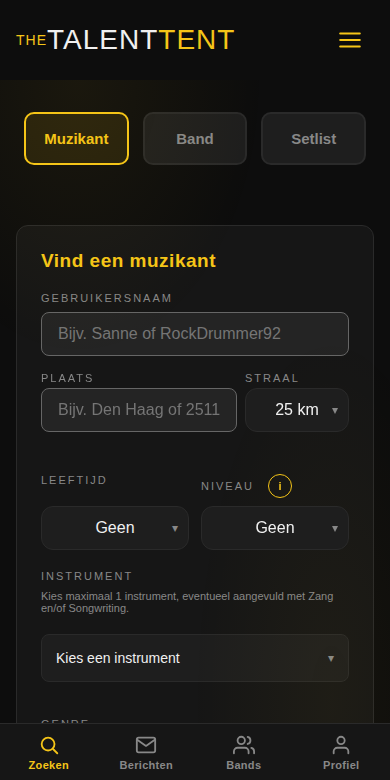
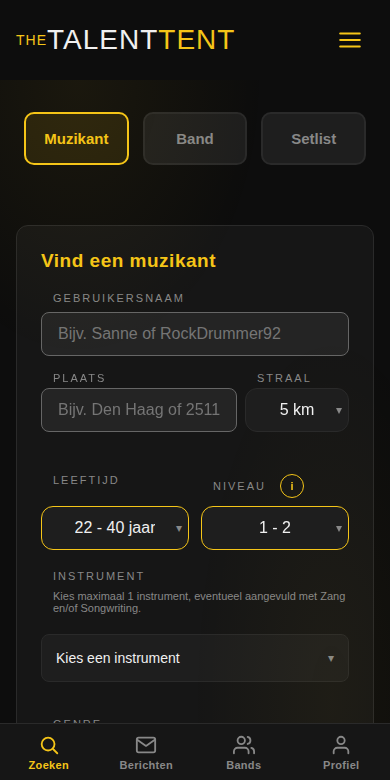
Add files via upload

diff --git a/styles.css b/styles.css
@@ -220,13 +220,21 @@
     gap: 8px;
   }
 
+  /* TT-233 (10-09-2026, Ronald): een label stond tegen de rand van de kolom,
+     terwijl de tekst in het veld eronder 12px inspringt — de breedte van de
+     ronde hoek. Daardoor liep geen enkele tekstregel op één lijn. Label en
+     hulptekst springen nu evenveel in als de tekst in het veld.
+     Geldt app-breed; --radius is 12px. */
   label {
     font-size: 11px;
     letter-spacing: 2px;
     text-transform: uppercase;
     color: var(--muted);
     font-weight: 500;
+    padding-left: var(--radius);
   }
+  /* Hulptekst onder een label, binnen dezelfde veldgroep. */
+  .field > p { padding-left: var(--radius); }
 
   /* Contrastfix 12-08-2026 (melding Ronald): randkleur en achtergrond van
      invulvelden weken bijna niet af van de paginakleur (#2a2a2a rand op
@@ -2738,7 +2746,11 @@
     align-items: center;
     justify-content: center;   /* de waarde staat gecentreerd, huisstijl §7.2 */
     min-height: 44px;
-    padding: 0 26px;
+    /* Beperkte opvulling met reden: op een scherm van 360px is dit veld 133px
+       breed. De langste stand, "22 - 40 jaar", heeft 85px nodig. Bij 26px
+       opvulling links en rechts werd die tekst afgekapt. Het pijltje staat er
+       los overheen, dus het kost geen breedte. */
+    padding: 0 12px;
     background: var(--surface2);
     border: var(--line) solid var(--border);
     border-radius: var(--radius);
@@ -2751,10 +2763,10 @@
   .wheel-field:focus-visible { outline: 2px solid var(--accent); outline-offset: 2px; }
   /* Gouden rand zodra dit filter aanstaat — in één blik te zien wat er leeft. */
   .wheel-field.is-set { border-color: var(--accent); }
-  .wheel-field-label { overflow: hidden; text-overflow: ellipsis; }
+  .wheel-field-label { overflow: hidden; text-overflow: ellipsis; max-width: calc(100% - 12px); }
   .wheel-field-chevron {
     position: absolute;
-    right: 10px;
+    right: 6px;
     color: var(--muted);
     font-size: 12px;
     pointer-events: none;
@@ -2820,9 +2832,10 @@
   .filter-row-city .frc-straal { flex: 0 0 auto; }
   .filter-row-city .frc-straal .wheel-field { min-width: 104px; }
 
-  /* Leeftijd en Niveau naast elkaar: twee exact gelijke kolommen. Zelfde
-     principe als een knoppenrij (§5) — 1fr is altijd even breed. */
-  .wheel-filter-row {
+  /* Twee velden naast elkaar: exact gelijke kolommen. Zelfde principe als een
+     knoppenrij (§5) — 1fr is altijd even breed. Gebruikt voor Leeftijd/Niveau
+     én voor Sorteren/Weergave. */
+  .field-pair-row {
     display: grid;
     grid-template-columns: 1fr 1fr;
     gap: 12px;
@@ -2832,11 +2845,44 @@
      bij Leeftijd. Zonder deze regel begint het ene veld 12px lager dan het
      andere. De cellen zijn even hoog (grid), dus de velden onderaan uitlijnen
      zet ze weer op één regel. */
-  .wheel-filter-row .field { min-width: 0; display: flex; flex-direction: column; }
-  .wheel-filter-row .field .wheel-field { margin-top: auto; }
+  .field-pair-row .field { min-width: 0; display: flex; flex-direction: column; }
+  .field-pair-row .field .wheel-field,
+  .field-pair-row .field .select-field { margin-top: auto; }
   /* Onder 360px past de rij niet meer naast elkaar. */
   @media (max-width: 359px) {
-    .wheel-filter-row { grid-template-columns: 1fr; }
+    .field-pair-row { grid-template-columns: 1fr; }
+  }
+
+  /* ─── Keuzelijst in de vorm van een wielveld (TT-233) ─────────────────────
+     Sorteren en Weergave zijn geen wiel — het zijn korte, ongeordende lijsten,
+     en die horen bij een keuzelijst (huisstijl §7.1). Ze krijgen wél exact het
+     uiterlijk van Leeftijd en Niveau, zodat de rij eronder niet als een ander
+     soort scherm leest. */
+  .select-field { position: relative; }
+  .select-field select {
+    height: 44px;
+    padding: 0 26px;
+    background: var(--surface2);
+    border: var(--line) solid var(--border);
+    border-radius: var(--radius);
+    color: var(--text);
+    font-size: 16px;
+    text-align: center;
+    text-align-last: center;
+    cursor: pointer;
+  }
+  .select-field select:focus {
+    border-color: var(--accent);
+    box-shadow: none;
+  }
+  .select-field-chevron {
+    position: absolute;
+    right: 10px;
+    top: 50%;
+    transform: translateY(-50%);
+    color: var(--muted);
+    font-size: 12px;
+    pointer-events: none;
   }
 
   /* TT-232 (09-09-2026): .search-btn heeft margin-top:8px voor los gebruik.

diff --git a/index.html b/index.html
@@ -923,7 +923,7 @@
               <span class="wheel-field-label"></span>
               <span class="wheel-field-chevron" aria-hidden="true">&#9662;</span>
             </div>
-            <input type="hidden" id="filterRadius" value="25">
+            <input type="hidden" id="filterRadius" value="5">
           </div>
         </div>
         <div id="filterCityStatus" style="font-size:11px;color:var(--muted);margin-top:4px;min-height:14px;"></div>
@@ -935,7 +935,7 @@
            Huisstijl §7.1. De losse toelichtingsregel onder de rij is vervallen;
            de betekenis staat op de terugleesregel in de bladwijzer en achter
            de i-knop. -->
-      <div class="wheel-filter-row">
+      <div class="field-pair-row">
         <div class="field">
           <label>Leeftijd</label>
           <div class="wheel-field" id="filterAgeField">
@@ -1017,25 +1017,31 @@
 
     <!-- Sorteren staat bewust bij het resultaat, niet bij de zoekfilters —
          her-sorteert direct zonder opnieuw te hoeven zoeken. -->
-    <div id="sortBarMusician" style="margin-bottom:16px;display:flex;flex-wrap:wrap;gap:20px;align-items:flex-end;">
-      <!-- TT-232 (09-09-2026, Ronalds schets): keuzelijsten in plaats van
-           schakelbalken. Beide staan er altijd, ook uitgelogd — "Beste match"
-           rekent sinds TT-232 met de ingevulde filters en heeft dus geen
-           eigen profiel meer nodig. -->
+    <!-- TT-233 (10-09-2026, Ronald): dezelfde rij-indeling en hetzelfde
+         uiterlijk als Leeftijd en Niveau. Twee gelijke kolommen, gecentreerde
+         tekst, pijltje rechts. Blijft een keuzelijst en geen wiel: het zijn
+         korte, ongeordende lijsten (huisstijl §7.1). -->
+    <div id="sortBarMusician" class="field-pair-row">
       <div class="field">
         <label for="filterSortMode">Sorteren op</label>
-        <select id="filterSortMode" onchange="setSearchSortMode(this.value)">
-          <option value="score">Beste match</option>
-          <option value="distance">Dichtstbijzijnde</option>
-          <option value="newest">Nieuwste</option>
-        </select>
+        <div class="select-field">
+          <select id="filterSortMode" onchange="setSearchSortMode(this.value)">
+            <option value="score">Beste match</option>
+            <option value="distance">Dichtstbijzijnde</option>
+            <option value="newest">Nieuwste</option>
+          </select>
+          <span class="select-field-chevron" aria-hidden="true">&#9662;</span>
+        </div>
       </div>
       <div class="field">
         <label for="musicianViewToggle">Weergave</label>
-        <select id="musicianViewToggle" onchange="setMusicianViewMode(this.value)">
-          <option value="list">Lijst</option>
-          <option value="grid">Kaarten</option>
-        </select>
+        <div class="select-field">
+          <select id="musicianViewToggle" onchange="setMusicianViewMode(this.value)">
+            <option value="list">Lijst</option>
+            <option value="grid">Kaarten</option>
+          </select>
+          <span class="select-field-chevron" aria-hidden="true">&#9662;</span>
+        </div>
       </div>
     </div>
 

diff --git a/search.js b/search.js
@@ -54,7 +54,7 @@ const WHEEL_NIVEAU  = ['', 1, 2, 3, 4, 5];
 // 500 km vroegen een lange scrollbeweging voor een keuze die in de praktijk
 // tussen 10 en 50 km ligt. Nederland is ongeveer 300 km lang.
 const WHEEL_RADIUS  = [5, 10, 15, 25, 50, 75, 100, 150, 250, 500];
-const STRAAL_STANDAARD = 25;
+const STRAAL_STANDAARD = 5;   // beginstand van het straalwiel (Ronald, 10-09-2026)
 
 function rangeStep(from, to, step) {
   const out = [];
@@ -281,6 +281,10 @@ function initSearchFilters() {
     title: 'Niveau',
     sep: 't/m',
     koppelBereik: true,
+    // Niveau begint bij 1. "Geen t/m 2" bestaat dus niet: kiest iemand een
+    // bovengrens terwijl de ondergrens op Geen staat, dan wordt die 1.
+    // (Ronald, 10-09-2026)
+    ondergrensVerplicht: true,
     infoActie: openMusicianNiveauInfoModal,
     columns: [
       { inputId: 'filterNiveauMin', values: WHEEL_NIVEAU, ariaLabel: 'Niveau vanaf' },
@@ -306,12 +310,16 @@ function niveauNaam(n) {
 
 // Leest een gekozen bereik terug in woorden. De korte vorm staat in het
 // gesloten veld, de lange vorm op de terugleesregel in de bladwijzer.
+// In het gesloten veld staat een streepje tussen de grenzen: "22 - 40 jaar"
+// (Ronald, 10-09-2026). Korter dan "t/m", en het veld is maar een halve regel
+// breed. In het wiel en op de terugleesregel blijft "t/m" staan — daar is
+// ruimte en leest het woord duidelijker.
 function leeftijdKort(min, max) {
   if (min === '' && max === '') return 'Geen';
-  if (min !== '' && max === '') return `${min}+`;
-  if (min === '' && max !== '') return `t/m ${max}`;
+  if (min !== '' && max === '') return `${min}+ jaar`;
+  if (min === '' && max !== '') return `t/m ${max} jaar`;
   if (min === max) return `${min} jaar`;
-  return `${min} t/m ${max}`;
+  return `${min} - ${max} jaar`;
 }
 
 function leeftijdBereikTekst(min, max) {
@@ -325,16 +333,14 @@ function leeftijdBereikTekst(min, max) {
 function niveauKort(min, max) {
   if (min === '' && max === '') return 'Geen';
   if (min !== '' && max === '') return `${min}+`;
-  if (min === '' && max !== '') return `t/m ${max}`;
   if (min === max) return `Alleen ${min}`;
-  return `${min} t/m ${max}`;
+  return `${min} - ${max}`;
 }
 
 function niveauBereikTekst(min, max) {
   const naam = (n) => { const t = niveauNaam(n); return t ? ` — ${t}` : ''; };
   if (min === '' && max === '') return 'Alle niveaus';
   if (min !== '' && max === '') return `Niveau ${min} en hoger${naam(min)}`;
-  if (min === '' && max !== '') return `Niveau ${max} en lager${naam(max)}`;
   if (min === max) return `Alleen niveau ${min}${naam(min)}`;
   return `Niveau ${min} t/m ${max} — ${niveauNaam(min)} t/m ${niveauNaam(max)}`;
 }

diff --git a/utils.js b/utils.js
@@ -776,7 +776,8 @@ let actiefWielVeld = null;
 //   sep?: 't/m', unit?: 'km',
 //   value: [beginwaarde per kolom],
 //   clearTo?: [waarde per kolom bij "Wissen"],
-//   koppelBereik?: true   -> kolom 2 mag niet onder kolom 1 zakken
+//   koppelBereik?: true        -> kolom 2 mag niet onder kolom 1 zakken
+//   ondergrensVerplicht?: true -> kolom 1 mag niet op "Geen" staan als kolom 2 gevuld is
 //   format(waarden) -> tekst in het gesloten veld
 //   hint(waarden)   -> terugleesregel onder het wiel
 //   onChange()      -> na elke wijziging
@@ -909,8 +910,19 @@ function koppelWielBereik(id) {
   const minId = wheelColumnId(id, 0);
   const maxId = wheelColumnId(id, 1);
   if (!WHEELS[minId] || !WHEELS[maxId]) return;
-  const min = getWheelValue(minId);
+  let min = getWheelValue(minId);
   const max = getWheelValue(maxId);
+
+  // Een bovengrens zonder ondergrens leest als een halve zin. Bij een schaal
+  // die bij een vaste waarde begint (niveau 1) vult de ondergrens zichzelf.
+  if (cfg.ondergrensVerplicht && max !== '' && min === '') {
+    const eerste = WHEELS[minId].values.find(v => v !== '');
+    if (eerste !== undefined) {
+      setWheelValue(minId, eerste, false);
+      min = eerste;
+    }
+  }
+
   if (min === '' || max === '' || Number(min) <= Number(max)) return;
   const nieuw = WHEELS[maxId].values.find(v => v !== '' && Number(v) >= Number(min));
   setWheelValue(maxId, nieuw === undefined ? '' : nieuw, false);
